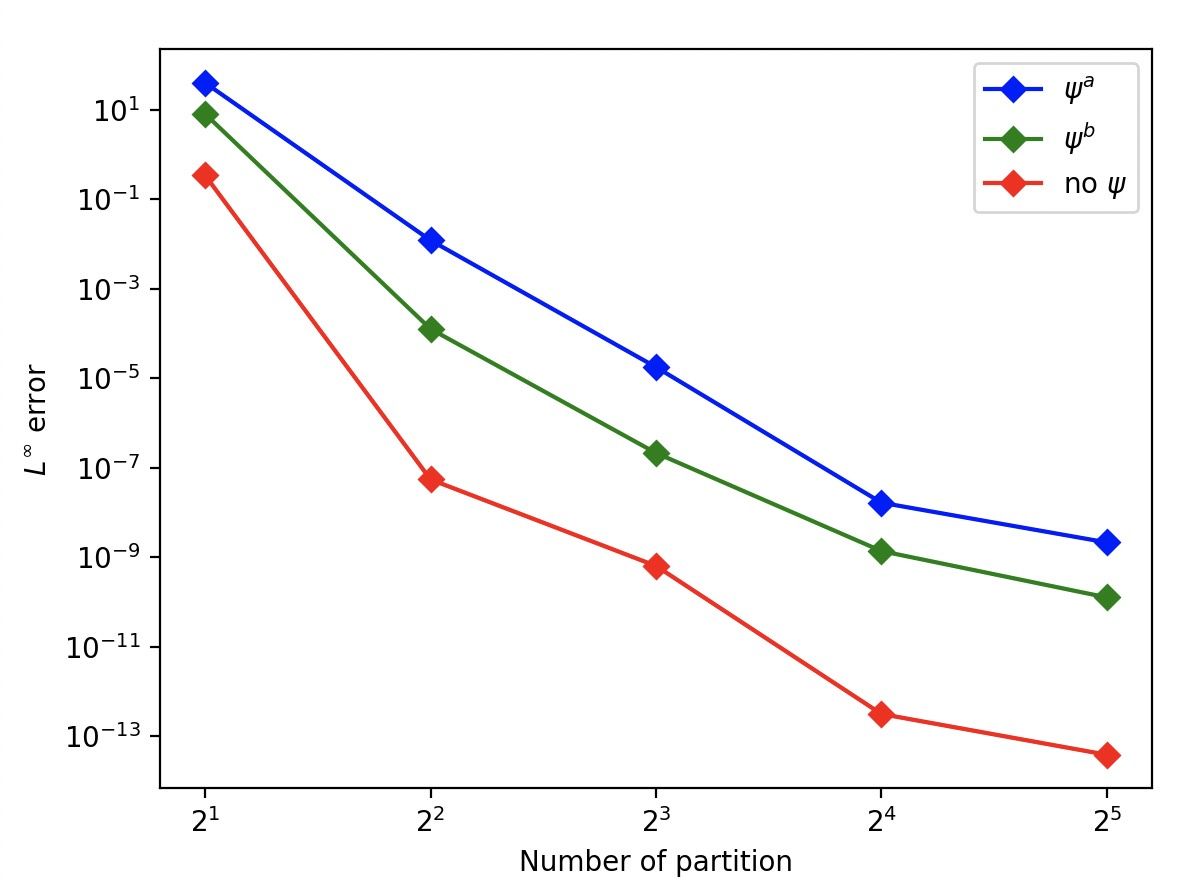
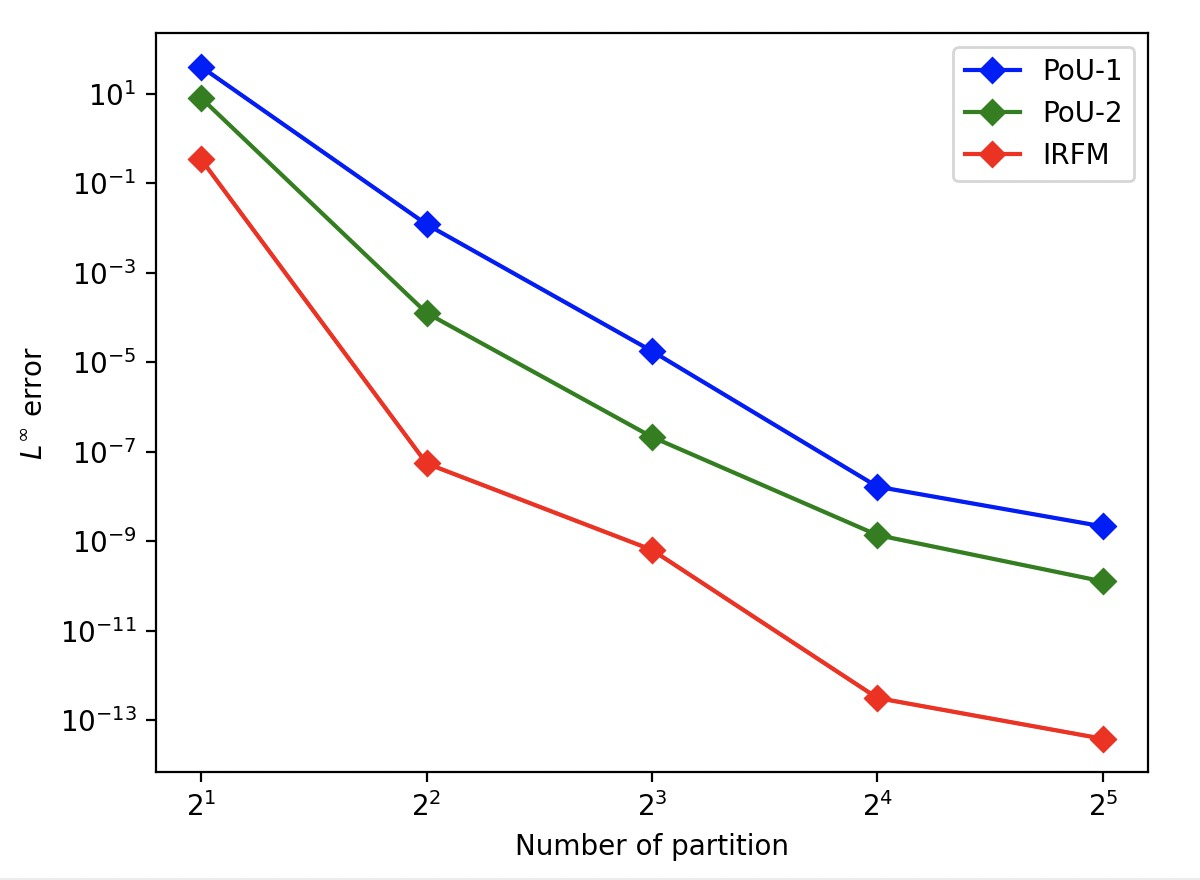
MLDA

diff --git a/st_rfm_lite/example_modified_st_rfm.py b/st_rfm_lite/example_modified_st_rfm.py
@@ -9,15 +9,15 @@ y2 = [7.82e-2, 4.83e-4, 1.29e-5, 1.54e-6, 2.14e-7]
 y3 = [2.37e-4, 1.26e-7, 3.51e-9, 9.48e-10, 3.59e-10]
 
 # 绘制三条折线，分别使用不同颜色和菱形标记
-plt.plot(x, y1, marker='D', color='blue', label=r'$\psi^a$')
-plt.plot(x, y2, marker='D', color='green', label=r'$\psi^b$')
-plt.plot(x, y3, marker='D', color='red', label=r'no $\psi$')
+plt.plot(x, y1, marker='D', color='blue', label=r'PoU-1')
+plt.plot(x, y2, marker='D', color='green', label=r'PoU-2')
+plt.plot(x, y3, marker='D', color='red', label=r'IRFM')
 
 # 设置横坐标为对数刻度
 plt.yscale('log', base=10)
 
 # 添加标签和标题
-plt.xlabel('Number of partition')
+plt.xlabel('Number of feature functions')
 plt.ylabel(r'$L^\infty$ error')
 # plt.title('Multiple Lines with Diamond Markers and Different Colors (Logarithmic X Axis)')
 
@@ -31,15 +31,15 @@ y2 = [1.58e-2, 5.87e-5, 1.77e-6, 2.03e-7, 2.97e-8]
 y3 = [2.18e-5, 1.26e-8, 2.78e-10, 8.54e-11, 6.41e-11]
 
 # 绘制三条折线，分别使用不同颜色和菱形标记
-plt.plot(x, y1, marker='D', color='blue', label=r'$\psi^a$')
-plt.plot(x, y2, marker='D', color='green', label=r'$\psi^b$')
-plt.plot(x, y3, marker='D', color='red', label=r'no $\psi$')
+plt.plot(x, y1, marker='D', color='blue', label=r'PoU-1')
+plt.plot(x, y2, marker='D', color='green', label=r'PoU-2')
+plt.plot(x, y3, marker='D', color='red', label=r'IRFM')
 
 # 设置横坐标为对数刻度
 plt.yscale('log', base=10)
 
 # 添加标签和标题
-plt.xlabel('Number of partition')
+plt.xlabel('Number of feature functions')
 plt.ylabel(r'$L^2$ error')
 
 # 显示图例

diff --git a/st_rfm_lite/example_modified_rfm.py b/st_rfm_lite/example_modified_rfm.py
@@ -9,9 +9,9 @@ y2 = [8, 1.26e-4, 2.14e-7, 1.38e-9, 1.27e-10]
 y3 = [0.34, 5.48e-8, 6.43e-10, 3.17e-13, 3.89e-14]
 
 # 绘制三条折线，分别使用不同颜色和菱形标记
-plt.plot(x, y1, marker='D', color='blue', label=r'$\psi^a$')
-plt.plot(x, y2, marker='D', color='green', label=r'$\psi^b$')
-plt.plot(x, y3, marker='D', color='red', label=r'no $\psi$')
+plt.plot(x, y1, marker='D', color='blue', label=r'PoU-1')
+plt.plot(x, y2, marker='D', color='green', label=r'PoU-2')
+plt.plot(x, y3, marker='D', color='red', label=r'IRFM')
 
 # 设置横坐标为对数刻度
 plt.xscale('log', base=2)
@@ -32,9 +32,9 @@ y2 = [1.58, 1.51e-5, 3.68e-8, 2.22e-10, 2.64e-11]
 y3 = [0.057, 1.11e-8, 1.04e-10, 1.46e-13, 1.31e-14]
 
 # 绘制三条折线，分别使用不同颜色和菱形标记
-plt.plot(x, y1, marker='D', color='blue', label=r'$\psi^a$')
-plt.plot(x, y2, marker='D', color='green', label=r'$\psi^b$')
-plt.plot(x, y3, marker='D', color='red', label=r'no $\psi$')
+plt.plot(x, y1, marker='D', color='blue', label=r'PoU-1')
+plt.plot(x, y2, marker='D', color='green', label=r'PoU-2')
+plt.plot(x, y3, marker='D', color='red', label=r'IRFM')
 
 # 设置横坐标为对数刻度
 plt.xscale('log', base=2)

diff --git a/st_rfm_lite/sci/membrane_vibration_2d_da_complex_domain_04_test.py b/st_rfm_lite/sci/membrane_vibration_2d_da_complex_domain_04_test.py
@@ -78,11 +78,11 @@ def plot_err(X1, T1, U1):
 if __name__ == '__main__':
     print(datetime.now(), "Main start")
 
-    data = np.load("membrane_vibration_2d_da_complex_domain_04_50.npz")
+    data = np.load("membrane_vibration_2d_da_complex_domain_04_250.npz")
     Nx, Ny, Nt, M, Qx, Qy, Qt, X_min, X_max, Y_min, Y_max, T_min, T_max = data['config']
     w = data['w']
 
-    models = torch.load('membrane_vibration_2d_da_complex_domain_04_50.pt')
+    models = torch.load('membrane_vibration_2d_da_complex_domain_04_250.pt')
 
     print(datetime.now(), "test start")
     test_Qx = 2 * Qx
